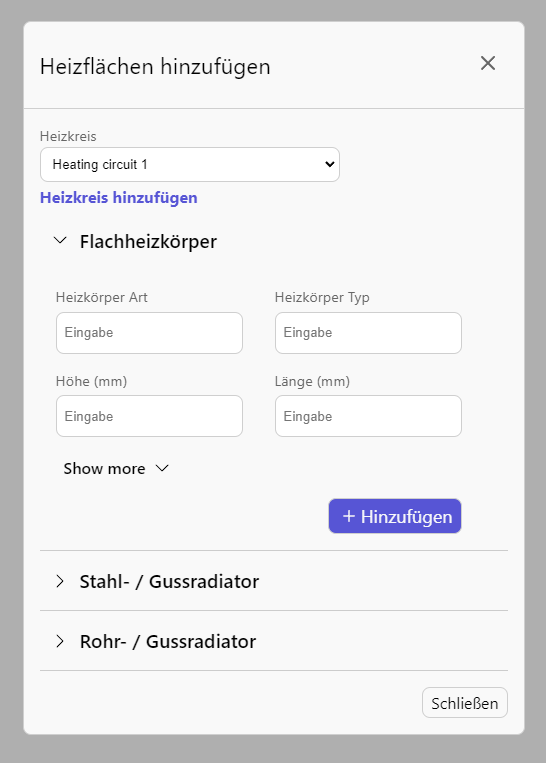
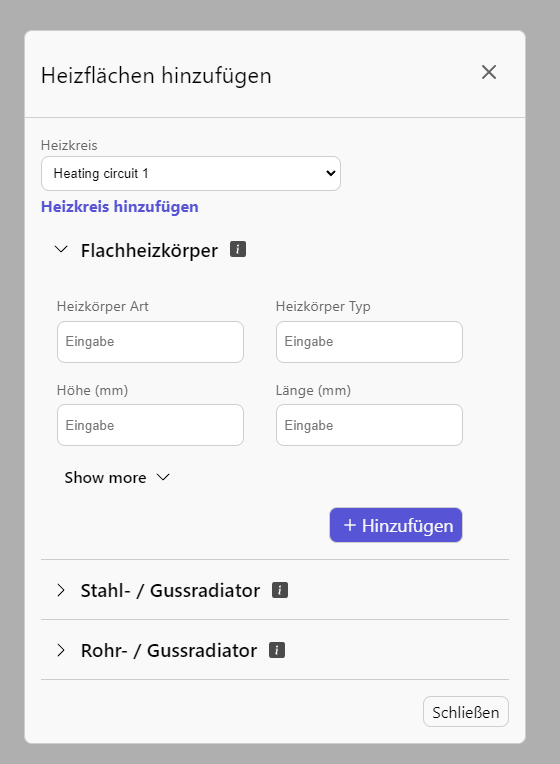
add info symbol

diff --git a/src/components/Accordion.tsx b/src/components/Accordion.tsx
@@ -1,6 +1,11 @@
 import { useState } from "react";
 import "./Accordion.css";
-import { BsChevronDown, BsChevronRight } from "react-icons/bs";
+import {
+  BsChevronDown,
+  BsChevronRight,
+  BsInfo,
+  BsInfoSquareFill,
+} from "react-icons/bs";
 
 type AccordionProps = {
   open?: boolean;
@@ -18,7 +23,10 @@ export const Accordion = ({ open, title, children }: AccordionProps) => {
     <div className="accordion">
       <button className="accordion-button" onClick={handleToggle}>
         {internalOpen ? <BsChevronDown /> : <BsChevronRight />}
-        <h2>{title}</h2>
+        <h2 className="accordion-header">
+          {title}
+          <BsInfoSquareFill size={16} className="info" />
+        </h2>
       </button>
       <div className={`accordion-content ${internalOpen && "open"}`}>
         {children}

diff --git a/src/components/Accordion.css b/src/components/Accordion.css
@@ -3,6 +3,17 @@
   border-bottom: 1px solid #ccc;
 }
 
+.accordion-header {
+  display: flex;
+  justify-content: center;
+  align-items: center;
+  gap: 12px;
+}
+
+.info {
+  color: rgb(75, 75, 75);
+}
+
 .accordion-button {
   display: flex;
   justify-content: start;
